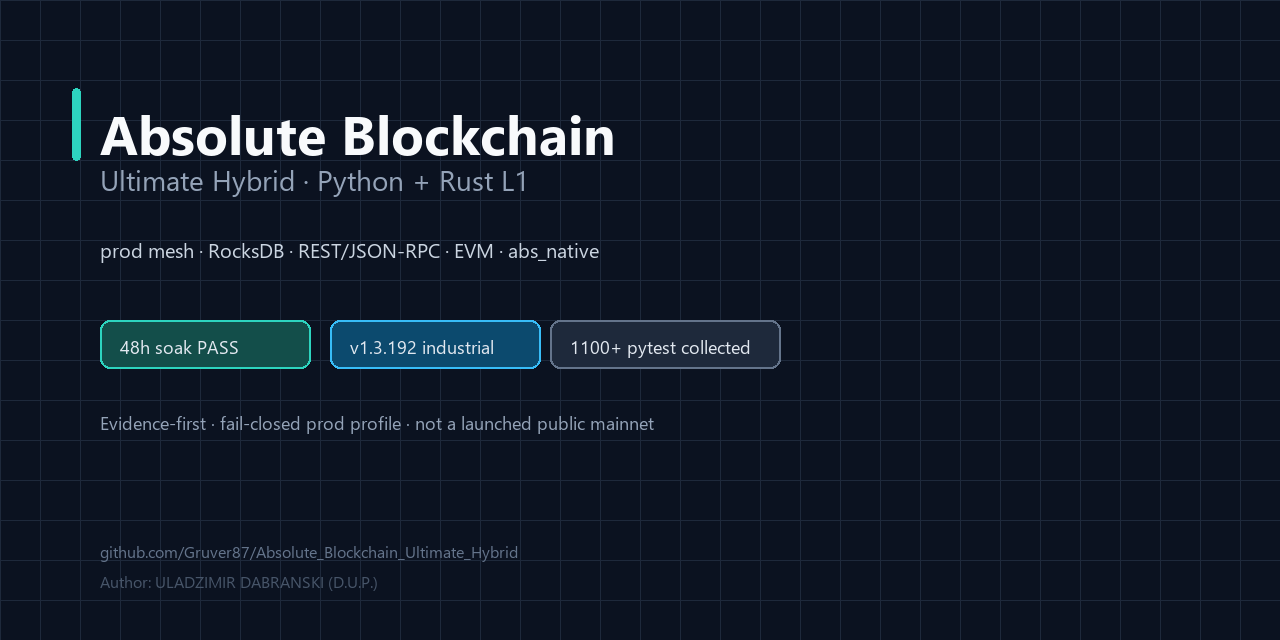
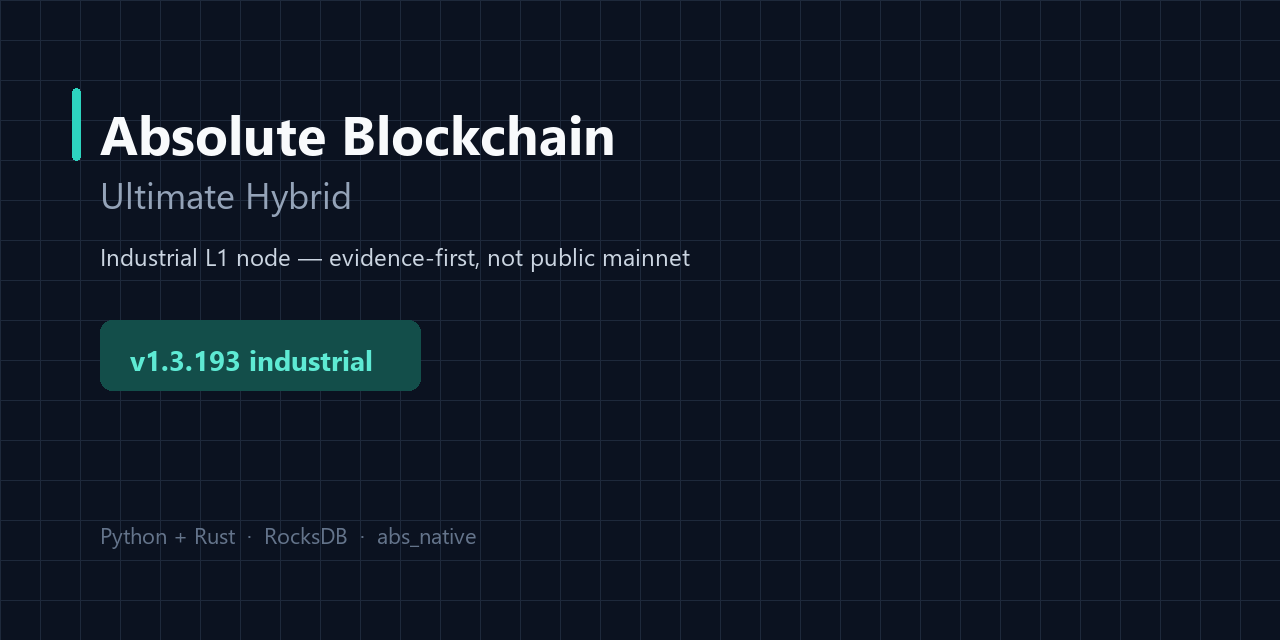
Ship v1.3.193: refuse NaN/Inf mempool value before validate.
Closes the soft DoS gap where value_negative misses non-finite floats.

diff --git a/tests/unit/test_v13193_mempool_nonfinite_value_refuse.py b/tests/unit/test_v13193_mempool_nonfinite_value_refuse.py
@@ -1,8 +1,9 @@
 #!/usr/bin/env python3
-"""v1.3.192: P2P refuses oversized public_key before validate_transaction."""
+"""v1.3.193: P2P refuses NaN/Inf value before validate_transaction."""
 
 from __future__ import annotations
 
+import math
 import sys
 from pathlib import Path
 from unittest.mock import MagicMock
@@ -16,22 +17,22 @@ from network.p2p_node import P2PNode
 from runtime.config import Config
 
 
-def _node(*, max_pk: int = 32) -> P2PNode:
+def _node() -> P2PNode:
     cfg = Config()
     cfg.p2p_native_transport = False
     cfg.require_native_crypto = False
     cfg.deployment_mode = "dev"
     cfg.bootstrap_peers = []
-    cfg.p2p_mempool_max_pubkey_refuse = True
-    cfg.p2p_mempool_max_pubkey_bytes = max_pk
+    cfg.p2p_mempool_nonfinite_value_refuse = True
+    cfg.p2p_mempool_negative_value_refuse = False
     cfg.p2p_mempool_empty_from_refuse = False
     cfg.p2p_mempool_empty_sig_refuse = False
     cfg.p2p_mempool_empty_pubkey_refuse = False
     cfg.p2p_mempool_max_sig_refuse = False
+    cfg.p2p_mempool_max_pubkey_refuse = False
     cfg.p2p_mempool_min_fee_refuse = False
     cfg.p2p_mempool_max_gas_refuse = False
     cfg.p2p_mempool_max_calldata_refuse = False
-    cfg.p2p_mempool_negative_value_refuse = False
     cfg.p2p_mempool_negative_nonce_refuse = False
     cfg.p2p_mempool_negative_fee_refuse = False
     cfg.p2p_mempool_negative_gas_refuse = False
@@ -45,16 +46,16 @@ def _node(*, max_pk: int = 32) -> P2PNode:
     return P2PNode(cfg, chain, mp)
 
 
-def _wire(*, public_key: str, fee: float = 1.0, tx_hash: str = "ab" * 32) -> dict:
+def _wire(*, value, fee: float = 1.0, tx_hash: str = "ab" * 32) -> dict:
     return {
         "from": "0x" + "11" * 20,
         "to": "0x" + "22" * 20,
-        "value": 1,
+        "value": value,
         "nonce": 0,
         "gas": 21_000,
         "fee": fee,
         "signature": "sig",
-        "public_key": public_key,
+        "public_key": "pk",
         "hash": tx_hash,
         "data": "",
     }
@@ -71,42 +72,49 @@ def _build(node: P2PNode, payload: dict):
         native.validate_p2p_wire_tx = orig  # type: ignore
 
 
-def test_needles_v13192():
+def test_needles_v13193():
     p2p = (ROOT / "network" / "p2p_node.py").read_text(encoding="utf-8")
-    assert "pubkey_too_large" in p2p
-    assert "p2p_mempool_max_pubkey_refuse" in p2p
-    assert "native_mempool_max_pubkey_refuse" in p2p
-    assert "_mempool_pubkey_size_refuse_total" in p2p
+    assert "value_non_finite" in p2p
+    assert "p2p_mempool_nonfinite_value_refuse" in p2p
+    assert "native_mempool_nonfinite_value_refuse" in p2p
+    assert "_mempool_nonfinite_value_refuse_total" in p2p
     cfg = (ROOT / "runtime" / "config.py").read_text(encoding="utf-8")
-    assert "p2p_mempool_max_pubkey_refuse" in cfg
-    assert "P2P_MEMPOOL_MAX_PUBKEY_REFUSE" in cfg
-    assert "p2p_mempool_max_pubkey_bytes" in cfg
-    notes = (ROOT / "RELEASE_NOTES_v1.3.192.md").read_text(encoding="utf-8")
-    assert "1.3.192-industrial" in notes
-    assert Config().node_version.startswith("1.3.")
+    assert "p2p_mempool_nonfinite_value_refuse" in cfg
+    assert "P2P_MEMPOOL_NONFINITE_VALUE_REFUSE" in cfg
+    notes = (ROOT / "RELEASE_NOTES_v1.3.193.md").read_text(encoding="utf-8")
+    assert "1.3.193-industrial" in notes
+    assert Config().node_version.startswith("1.3.193")
     metrics = (ROOT / "observability" / "metrics.py").read_text(encoding="utf-8")
-    assert "abs_p2p_native_mempool_max_pubkey_refuse" in metrics
-    assert "abs_p2p_mempool_pubkey_size_refuse_total" in metrics
+    assert "abs_p2p_native_mempool_nonfinite_value_refuse" in metrics
+    assert "abs_p2p_mempool_nonfinite_value_refuse_total" in metrics
 
 
-def test_refuse_oversized_pubkey_before_validate():
-    node = _node(max_pk=16)
-    out = _build(node, _wire(public_key="k" * 64))
+def test_refuse_nan_before_validate():
+    node = _node()
+    out = _build(node, _wire(value=float("nan")))
     assert out is None
-    assert node._last_tx_wire_reject == "pubkey_too_large"
-    assert node._mempool_pubkey_size_refuse_total >= 1
+    assert node._last_tx_wire_reject == "value_non_finite"
+    assert node._mempool_nonfinite_value_refuse_total >= 1
     node.blockchain.validate_transaction.assert_not_called()
 
 
-def test_ok_small_pubkey_reaches_validate():
-    node = _node(max_pk=64)
-    out = _build(node, _wire(public_key="pk"))
+def test_refuse_inf_before_validate():
+    node = _node()
+    out = _build(node, _wire(value=float("inf"), tx_hash="cd" * 32))
+    assert out is None
+    assert node._last_tx_wire_reject == "value_non_finite"
+
+
+def test_ok_finite_reaches_validate():
+    node = _node()
+    out = _build(node, _wire(value=1.25, tx_hash="ef" * 32))
     assert out is not None
+    assert math.isfinite(1.25)
     node.blockchain.validate_transaction.assert_called()
-    assert node._mempool_pubkey_size_refuse_total == 0
+    assert node._mempool_nonfinite_value_refuse_total == 0
 
 
 def test_security_status_gauge():
     node = _node()
     st = node.get_p2p_security_status()
-    assert st.get("native_mempool_max_pubkey_refuse") is True
+    assert st.get("native_mempool_nonfinite_value_refuse") is True

diff --git a/scripts/verify_industrial_waves.py b/scripts/verify_industrial_waves.py
@@ -1,5 +1,5 @@
 #!/usr/bin/env python3
-"""Verify industrial hardening waves v1.3.65–v1.3.192 (plan checklist).
+"""Verify industrial hardening waves v1.3.65–v1.3.193 (plan checklist).
 
 Runs static needle checks, targeted unit tests, and industrial_gate.
 
@@ -153,6 +153,7 @@ WAVE_TESTS = [
     "tests/unit/test_v13190_mempool_empty_pubkey_refuse.py",
     "tests/unit/test_v13191_mempool_max_sig_refuse.py",
     "tests/unit/test_v13192_mempool_max_pubkey_refuse.py",
+    "tests/unit/test_v13193_mempool_nonfinite_value_refuse.py",
     "tests/unit/test_v1364_writeback_preload.py",
     "tests/unit/test_v1363_writeback_bundle.py",
     "tests/unit/test_v1362_writeback_commit.py",
@@ -3061,6 +3062,33 @@ NEEDLES: list[tuple[str, str, list[str]]] = [
             "abs_p2p_mempool_pubkey_size_refuse_total",
         ],
     ),
+    (
+        "1.3.193",
+        "RELEASE_NOTES_v1.3.193.md",
+        ["1.3.193-industrial", "value_non_finite"],
+    ),
+    (
+        "1.3.193",
+        "network/p2p_node.py",
+        [
+            "value_non_finite",
+            "p2p_mempool_nonfinite_value_refuse",
+            "native_mempool_nonfinite_value_refuse",
+        ],
+    ),
+    (
+        "1.3.193",
+        "runtime/config.py",
+        ["p2p_mempool_nonfinite_value_refuse"],
+    ),
+    (
+        "1.3.193",
+        "observability/metrics.py",
+        [
+            "abs_p2p_native_mempool_nonfinite_value_refuse",
+            "abs_p2p_mempool_nonfinite_value_refuse_total",
+        ],
+    ),
 ]
 
 
@@ -3088,8 +3116,8 @@ def check_version() -> list[str]:
         from runtime.config import Config
 
         ver = str(Config().node_version)
-        if not ver.startswith("1.3.192"):
-            errors.append(f"node_version expected 1.3.192-*, got {ver}")
+        if not ver.startswith("1.3.193"):
+            errors.append(f"node_version expected 1.3.193-*, got {ver}")
     except Exception as exc:
         errors.append(f"config import failed: {exc}")
     return errors

diff --git a/runtime/config.py b/runtime/config.py
@@ -19,7 +19,7 @@ class Config:
     chain_id: int = 77777                 # Absolute Devnet (see node.example.json)
     genesis_timestamp: int = 0              # 0 = deterministic from chain_id (multi-node P2P)
     network_name: str = "Absolute"
-    node_version: str = "1.3.192-industrial"
+    node_version: str = "1.3.193-industrial"
     node_id: str = "node-1"
     deployment_mode: str = "dev"          # dev | staging | prod
 
@@ -132,6 +132,7 @@ class Config:
     p2p_mempool_max_sig_bytes: int = 2048           # v1.3.191: max wire signature bytes
     p2p_mempool_max_pubkey_refuse: bool = True      # v1.3.192: refuse oversized public_key before validate_transaction
     p2p_mempool_max_pubkey_bytes: int = 2048        # v1.3.192: max wire public_key bytes
+    p2p_mempool_nonfinite_value_refuse: bool = True # v1.3.193: refuse NaN/Inf value before validate_transaction
     p2p_get_blocks_future_refuse: bool = True     # v1.3.180: refuse GET_BLOCKS when from_height > local tip
     p2p_get_block_future_refuse: bool = True      # v1.3.181: refuse GET_BLOCK when height > local tip
     p2p_get_blocks_past_tip_clamp: bool = True    # v1.3.182: clamp GET_BLOCKS end to local tip (no DB past tip)
@@ -481,6 +482,10 @@ class Config:
         self.p2p_mempool_max_pubkey_bytes = env_int(
             "P2P_MEMPOOL_MAX_PUBKEY_BYTES",
             self.p2p_mempool_max_pubkey_bytes,
+        )
+        self.p2p_mempool_nonfinite_value_refuse = env_bool(
+            "P2P_MEMPOOL_NONFINITE_VALUE_REFUSE",
+            self.p2p_mempool_nonfinite_value_refuse,
         )
         self.p2p_get_blocks_future_refuse = env_bool(
             "P2P_GET_BLOCKS_FUTURE_REFUSE", self.p2p_get_blocks_future_refuse

diff --git a/scripts/industrial_gate.py b/scripts/industrial_gate.py
@@ -3150,8 +3150,29 @@ def _check_fail_loud_surfaces() -> tuple[list[str], list[str]]:
             errors.append(
                 "metrics must export abs_p2p_native_mempool_max_pubkey_refuse (v1.3.192)"
             )
+        # v1.3.193 — mempool non-finite value refuse before validate
+        if "value_non_finite" not in p2p_py:
+            errors.append(
+                "p2p must refuse NaN/Inf value before validate (v1.3.193)"
+            )
+        if "p2p_mempool_nonfinite_value_refuse" not in p2p_py:
+            errors.append(
+                "p2p must gate on p2p_mempool_nonfinite_value_refuse (v1.3.193)"
+            )
+        if "p2p_mempool_nonfinite_value_refuse" not in (
+            ROOT / "runtime" / "config.py"
+        ).read_text(encoding="utf-8"):
+            errors.append(
+                "config must expose p2p_mempool_nonfinite_value_refuse (v1.3.193)"
+            )
+        if "abs_p2p_native_mempool_nonfinite_value_refuse" not in (
+            ROOT / "observability" / "metrics.py"
+        ).read_text(encoding="utf-8"):
+            errors.append(
+                "metrics must export abs_p2p_native_mempool_nonfinite_value_refuse (v1.3.193)"
+            )
     except Exception as exc:
-        errors.append(f"fail-loud v1.3.28..192 honesty inspect failed: {exc}")
+        errors.append(f"fail-loud v1.3.28..193 honesty inspect failed: {exc}")
     try:
         metrics_py = (ROOT / "observability" / "metrics.py").read_text(encoding="utf-8")
         if "abs_sync_wire_probe_probed" not in metrics_py:

diff --git a/observability/metrics.py b/observability/metrics.py
@@ -1339,6 +1339,18 @@ class MetricsCollector:
                     f"abs_p2p_mempool_pubkey_size_refuse_total{{node_id=\"{node_id}\"}} "
                     f"{int(p2p_security.get('mempool_pubkey_size_refuse_total', 0) or 0)}"
                 ),
+                "# HELP abs_p2p_native_mempool_nonfinite_value_refuse Whether P2P refuses NaN/Inf value before validate (0/1)",
+                "# TYPE abs_p2p_native_mempool_nonfinite_value_refuse gauge",
+                (
+                    f"abs_p2p_native_mempool_nonfinite_value_refuse{{node_id=\"{node_id}\"}} "
+                    f"{1 if p2p_security.get('native_mempool_nonfinite_value_refuse') else 0}"
+                ),
+                "# HELP abs_p2p_mempool_nonfinite_value_refuse_total Non-finite value mempool refuses before validate_transaction",
+                "# TYPE abs_p2p_mempool_nonfinite_value_refuse_total counter",
+                (
+                    f"abs_p2p_mempool_nonfinite_value_refuse_total{{node_id=\"{node_id}\"}} "
+                    f"{int(p2p_security.get('mempool_nonfinite_value_refuse_total', 0) or 0)}"
+                ),
                 "# HELP abs_p2p_native_get_blocks_future_refuse Whether GET_BLOCKS refuses from_height>local tip (0/1)",
                 "# TYPE abs_p2p_native_get_blocks_future_refuse gauge",
                 (

diff --git a/README.md b/README.md
@@ -14,13 +14,13 @@
 [![Security audit](https://github.com/Gruver87/Absolute_Blockchain_Ultimate_Hybrid/actions/workflows/security-audit.yml/badge.svg?branch=master)](https://github.com/Gruver87/Absolute_Blockchain_Ultimate_Hybrid/actions/workflows/security-audit.yml)
 [![Native fuzz](https://github.com/Gruver87/Absolute_Blockchain_Ultimate_Hybrid/actions/workflows/fuzz-native.yml/badge.svg?branch=master)](https://github.com/Gruver87/Absolute_Blockchain_Ultimate_Hybrid/actions/workflows/fuzz-native.yml)
 [![48h soak](https://img.shields.io/badge/48h%20soak-PASS-brightgreen)](docs/EVIDENCE_MATRIX.md)
-[![v1.3.192](https://img.shields.io/badge/tag-v1.3.192-blue)](RELEASE_NOTES_v1.3.192.md)
+[![v1.3.193](https://img.shields.io/badge/tag-v1.3.193-blue)](RELEASE_NOTES_v1.3.193.md)
 [![Python](https://img.shields.io/badge/Python-3.10+-blue)](https://www.python.org/)
 [![Rust](https://img.shields.io/badge/Rust-abs__native-orange)](native/abs_native)
 
 | | |
 |---|---|
-| **Release** | [v1.3.192](RELEASE_NOTES_v1.3.192.md) · [CHANGELOG](CHANGELOG.md) · [Releases](https://github.com/Gruver87/Absolute_Blockchain_Ultimate_Hybrid/releases) |
+| **Release** | [v1.3.193](RELEASE_NOTES_v1.3.193.md) · [CHANGELOG](CHANGELOG.md) · [Releases](https://github.com/Gruver87/Absolute_Blockchain_Ultimate_Hybrid/releases) |
 | **Prove it** | `.\scripts\operator_verify.ps1 -SkipNativeBuild` · `.\scripts\check_all.ps1` · CI badges above |
 | **Run** | `python main.py` → http://localhost:8080 |
 | **Chains** | `77777` lab · `778888` prod-profile (**not** public mainnet) |

diff --git a/RELEASE_NOTES_v1.3.193.md b/RELEASE_NOTES_v1.3.193.md
@@ -1,0 +1,28 @@
+# Release notes — v1.3.193
+
+## Summary
+
+**Industrial mempool non-finite value refuse (no simplifications):**
+
+1. **NaN/Inf value refuse** — P2P wire txs with non-finite `value` are refused before `validate_transaction` (`value_non_finite`).
+2. Soft DoS honesty — `value_negative` does not catch NaN/Inf; this closes that gap.
+3. Sequel to v1.3.184 (negative value) refuse-before-validate family.
+
+## Changes
+
+- `network/p2p_node.py` — `math.isfinite` check in `_build_mempool_tx_from_wire`
+- Config: `p2p_mempool_nonfinite_value_refuse` / `P2P_MEMPOOL_NONFINITE_VALUE_REFUSE` (default on)
+- Metrics / security status gauge + refuse counter
+- `node_version`: `1.3.193-industrial`
+
+## Honesty
+
+- Soft non-finite gate — **not** tip proof, not Long-Range, not libp2p / public mainnet, not Rust gas PQ
+
+## Verify
+
+```text
+.\scripts\operator_verify.ps1
+.\scripts\operator_verify.ps1 -Mode Standard
+python -m pytest tests/unit/test_v13193_mempool_nonfinite_value_refuse.py -q
+```

diff --git a/docs/PORTING_ROADMAP.md b/docs/PORTING_ROADMAP.md
@@ -1152,6 +1152,13 @@ Goal: move deterministic, CPU-bound, and consensus-critical code to **Rust/PyO3*
 - [x] Config `p2p_mempool_max_pubkey_refuse` / `p2p_mempool_max_pubkey_bytes` (default on / 2048)
 - Remaining: tip proof / Long-Range / libp2p / ceremony pin / external audit (not claimed)
 
+### Priority 147 — Mempool non-finite value refuse before validate ✅ (v1.3.193)
+
+- [x] P2P wire txs with NaN/Inf `value` refused before `validate_transaction`
+- [x] Refuse `value_non_finite` (cheap DoS path; complements value_negative)
+- [x] Config `p2p_mempool_nonfinite_value_refuse` (default on)
+- Remaining: tip proof / Long-Range / libp2p / ceremony pin / external audit (not claimed)
+
 ## Process per module
 
 1. Python tests + golden vectors first.

diff --git a/.github/REPO_PROFILE.md b/.github/REPO_PROFILE.md
@@ -60,8 +60,8 @@ hybrid-blockchain
 
 | Field | Value |
 |-------|-------|
-| **Tag** | `v1.3.192` — mempool max-pubkey refuse |
-| **Notes** | [RELEASE_NOTES_v1.3.192.md](../RELEASE_NOTES_v1.3.192.md) |
+| **Tag** | `v1.3.193` — mempool non-finite value refuse |
+| **Notes** | [RELEASE_NOTES_v1.3.193.md](../RELEASE_NOTES_v1.3.193.md) |
 | **Self-check** | `.\scripts\operator_verify.ps1 -SkipNativeBuild` · `.\scripts\check_all.ps1` |
 | **Tests** | 1100+ collected (`pytest tests/ --collect-only`) |
 | **CI** | `test.yml`, `docker-prod-image.yml`, `security-audit.yml` |

diff --git a/CHANGELOG.md b/CHANGELOG.md
@@ -6,6 +6,14 @@
 
 ---
 
+## [1.3.193] — 2026-07-26
+
+### Mempool — non-finite value refuse
+
+- P2P refuses NaN/Inf `value` before `validate_transaction` (`value_non_finite`)
+- Soft DoS honesty — complements `value_negative` (NaN/Inf slip past `< 0`)
+- Honesty: not tip proof / Long-Range / libp2p / public mainnet
+
 ## [1.3.146] — 2026-07-26
 
 ### P2P — catch-up tip probe + head↔height bind

diff --git a/docs/AT_A_GLANCE.md b/docs/AT_A_GLANCE.md
@@ -14,7 +14,7 @@ Public audited mainnet · listed ABS token · investment product · bridge ON on
 
 | | |
 |---|---|
-| Tag | **[v1.3.192](../RELEASE_NOTES_v1.3.192.md)** |
+| Tag | **[v1.3.193](../RELEASE_NOTES_v1.3.193.md)** |
 | CI | Ubuntu `test.yml` + docker + security + fuzz |
 | 48h soak | **PASS** |
 | Self-check | `.\scripts\operator_verify.ps1 -SkipNativeBuild` · `make test-quick` |
